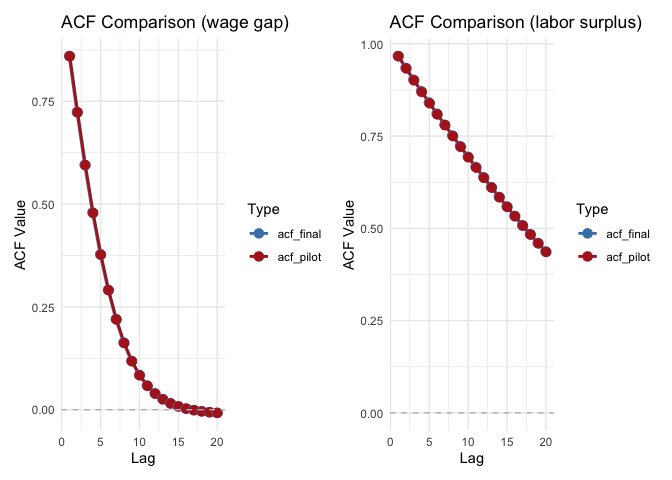
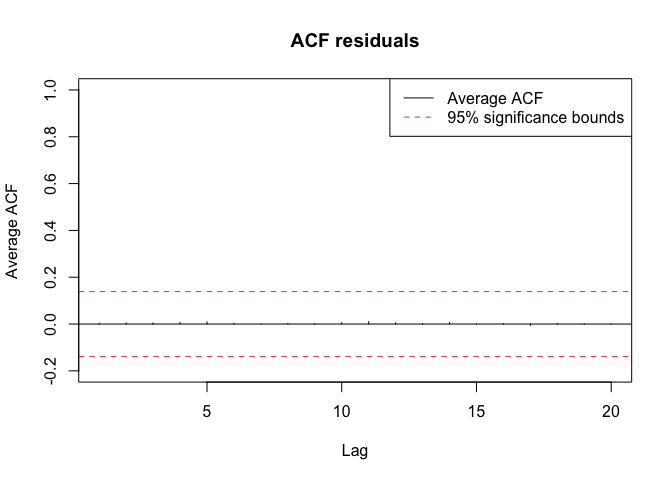
delete mnp std

diff --git a/wage_lab.md b/wage_lab.md
@@ -998,11 +998,9 @@ estimates.
 
 The previous simulations used a frequentist framework that assumes
 parameters are fixed values. However, because the goal of this project
-is to model the challenges of historical data, we use synthetic data
-that mimics the non-independence of historical data with the ARMA(1,q)
-structure of the observations. Because the data points are not truly
-independent, the Bayesian approach provides a more honest and accurate
-quantification of uncertainty.
+is to model the challenges of historical data, the data points are not
+truly independent, the Bayesian approach provides a more honest and
+accurate quantification of uncertainty.
 
 2 methods from the Markov chain Monte Carlo family : Manual
 Metropolis-Hastings , Hamiltonian Monte Carlo
@@ -1268,34 +1266,9 @@ par(mfrow = c(1, 1))
   drifting downward and converging to a posterior mean that
   underestimates the true value.
 
-``` r
-# multivariate Normal proposal with standardized observations X_std
-mnp_std <- multivariate_normal_proposal(X_std, y_vec, n_iter = 5000, proposal_sd = .05, model_std)
-```
-
-    ## Acceptance rate:  0.752
-
-``` r
-par(mfcol = c(2, 4), mar = c(4, 4, 2, 1))
-trace_plot(mnp_std)
-post_plot(mnp_std)
-```
-
-![](wage_lab_files/figure-gfm/unnamed-chunk-46-1.png)<!-- -->
-
-``` r
-par(mfrow = c(1, 1))
-```
-
-- $\beta_0$ :
-- $\beta_1$ :
-- $\beta_2$ :
-- $\beta_3$ :
-
-**R-hat computation for the Manual Metropolis Hasting :**
-
-$\hat{R}$ is a convergence diagnostic. It tells whether the MCMC chains
-have converged to the same posterior distribution.
+**R-hat computation for the Manual Metropolis Hasting :** $\hat{R}$ is a
+convergence diagnostic. It tells whether the MCMC chains have converged
+to the same posterior distribution.
 
 **Between-chain variance** : This measures how different the two chain
 means are from each other.
@@ -1388,7 +1361,6 @@ compute_rhat <- function(samples) {
 rhat_mcmc_samples <- compute_rhat(mcmc_samples)
 rhat_mcmc_std <- compute_rhat(mcmc_std)
 rhat_mnp_samples <- compute_rhat(mnp_samples)
-rhat_mnp_std <- compute_rhat(mnp_std)
 ```
 
 ``` r
@@ -1396,16 +1368,15 @@ data.frame(
   parameters = c("beta0", "beta1", "beta2", "beta3"), 
   rhat1 = c(rhat_mcmc_samples), 
   rhat2 = c(rhat_mcmc_std), 
-  rhat3 = c(rhat_mnp_samples), 
-  rhat4 = c(rhat_mnp_std)
+  rhat3 = c(rhat_mnp_samples)
 )
 ```
 
-    ##   parameters    rhat1    rhat2    rhat3    rhat4
-    ## 1      beta0 2.169829 3.853452 3.501115 1.279569
-    ## 2      beta1 1.281464 3.529730 2.744399 2.025436
-    ## 3      beta2 1.030176 2.329562 3.634332 3.118935
-    ## 4      beta3 2.040359 3.652906 3.443001 2.665755
+    ##   parameters    rhat1    rhat2    rhat3
+    ## 1      beta0 2.169829 3.853452 3.501115
+    ## 2      beta1 1.281464 3.529730 2.744399
+    ## 3      beta2 1.030176 2.329562 3.634332
+    ## 4      beta3 2.040359 3.652906 3.443001
 
       -   Hamiltonian Monte Carlo
 
@@ -1432,13 +1403,15 @@ bayesian_model <- brm(
 
     ## Compiling Stan program...
 
+    ## Trying to compile a simple C file
+
     ## Start sampling
 
 ``` r
 plot(bayesian_model)
 ```
 
-![](wage_lab_files/figure-gfm/unnamed-chunk-51-1.png)<!-- -->
+![](wage_lab_files/figure-gfm/unnamed-chunk-49-1.png)<!-- -->
 
 **The chain crosses the true value frequently and stays centered around
 it for all parameters** $\beta_0$ , $\beta_1$ , $\beta_2$ , $\beta_3$
@@ -1452,18 +1425,17 @@ data.frame(
   parameters = c("beta0", "beta1", "beta2", "beta3"), 
   rhat_mh_1 = c(rhat_mcmc_samples), 
   rhat_mh_2 = c(rhat_mcmc_std), 
-  rhat_mh_3 = c(rhat_mnp_samples), 
-  rhat_mh_4 = c(rhat_mnp_std), 
+  rhat_mh_3 = c(rhat_mnp_samples),
   rhat_hmc =  (rhat)
 )
 )
 ```
 
-    ##   parameters rhat_mh_1 rhat_mh_2 rhat_mh_3 rhat_mh_4 rhat_hmc
-    ## 1      beta0  2.169829  3.853452  3.501115  1.279569 1.003090
-    ## 2      beta1  1.281464  3.529730  2.744399  2.025436 1.004250
-    ## 3      beta2  1.030176  2.329562  3.634332  3.118935 1.001756
-    ## 4      beta3  2.040359  3.652906  3.443001  2.665755 1.004215
+    ##   parameters rhat_mh_1 rhat_mh_2 rhat_mh_3 rhat_hmc
+    ## 1      beta0  2.169829  3.853452  3.501115 1.003090
+    ## 2      beta1  1.281464  3.529730  2.744399 1.004250
+    ## 3      beta2  1.030176  2.329562  3.634332 1.001756
+    ## 4      beta3  2.040359  3.652906  3.443001 1.004215
 
 All parameters achieved $\hat{R} \approx 1$ with the Hamiltonian Monte
 Carlo algorithm, confirming convergence across the four chains. In
@@ -1525,14 +1497,11 @@ acf_comparison <- function(acf_comp, title = "ACF Comparison: Final vs Pilot"){
 ``` r
 plot_wage <- acf_comparison(acf_comp_w, title = "ACF Comparison (wage gap)" )
 plot_labor <-acf_comparison(acf_comp_l, title = "ACF Comparison (labor surplus)" )
-```
-
-``` r
 combined_plot <- plot_wage + plot_labor
 combined_plot
 ```
 
-![](wage_lab_files/figure-gfm/unnamed-chunk-57-1.png)<!-- -->
+![](wage_lab_files/figure-gfm/unnamed-chunk-54-1.png)<!-- -->
 
 As confirmed by the plots, the final and pilot simulations exhibit the
 **same autocorrelation structure.** This alignment indicate two key
@@ -1576,7 +1545,7 @@ avg_resid_matrix <- rowMeans(acf_resid_matrix)
 acf_plot(avg_resid_matrix, T_final, title = "ACF residuals")
 ```
 
-![](wage_lab_files/figure-gfm/unnamed-chunk-59-1.png)<!-- -->
+![](wage_lab_files/figure-gfm/unnamed-chunk-56-1.png)<!-- -->
 
 Because the predictors $CP_W$ and $CP_L$ effectively explain the
 autoregressive nature of the data, the model residuals exhibit
